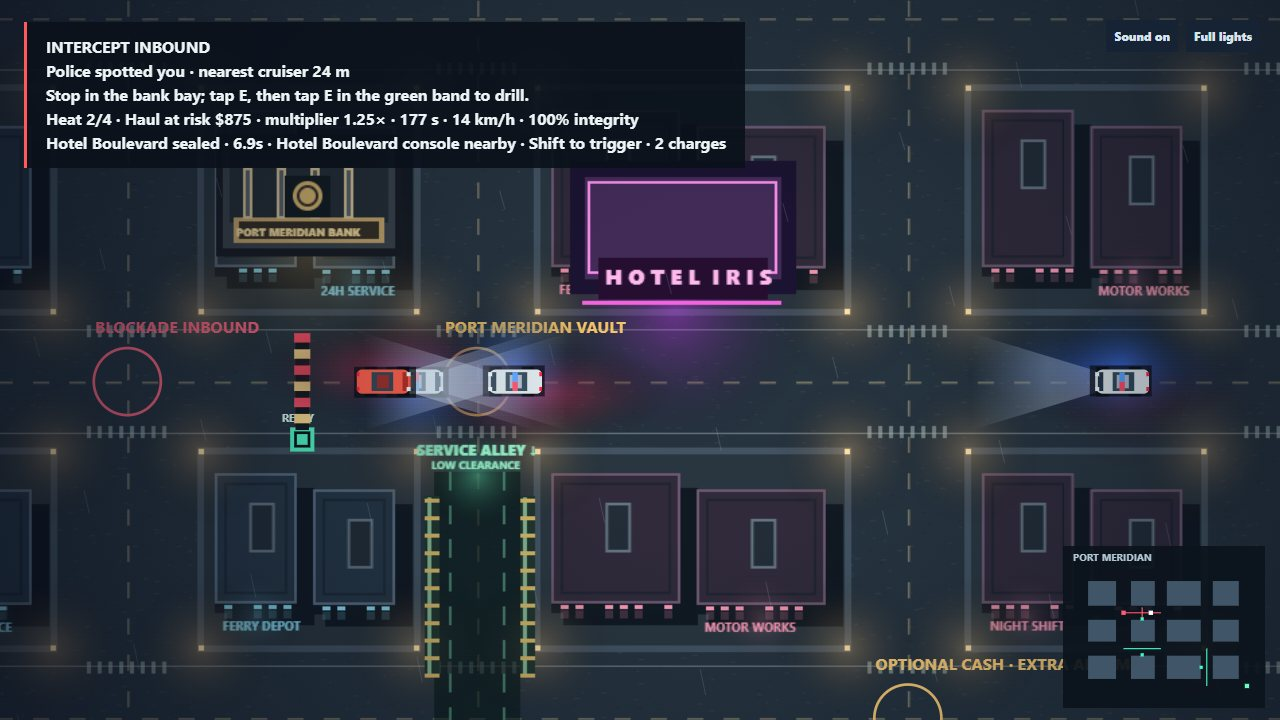
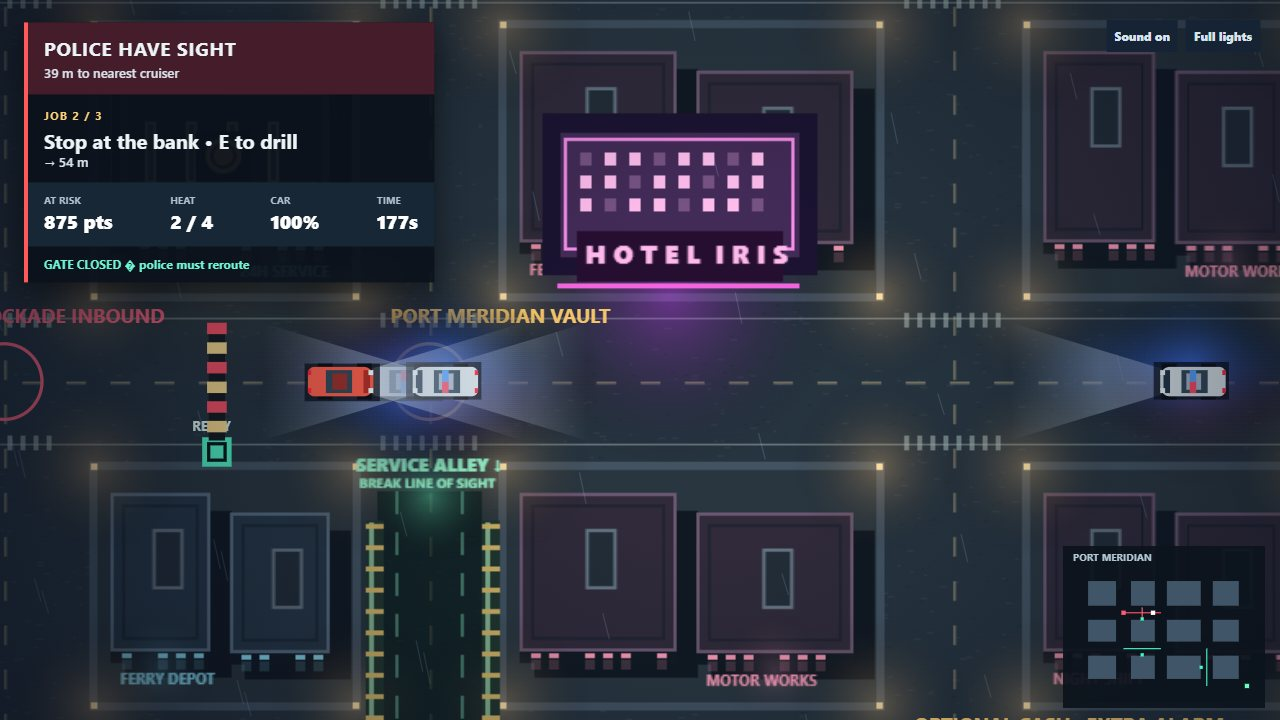
Improve chase readability and clarify route consequences

diff --git a/game/src/play.js b/game/src/play.js
@@ -111,7 +111,7 @@ startButton.onclick = confirm;
 
 function openIntermission() {
   mode='intermission'; hud.hidden=true; brief.hidden=true; intermission.hidden=false;
-  Jobs.offer(state.jobs); state.selectedUpgrade=null;
+  Jobs.offer(state.jobs); state.selectedUpgrade=null; continueJob.disabled=true;
   document.querySelector('#job-summary').textContent = `${state.jobs.pendingTitle}. Current haul at risk: $${Math.round(state.jobs.haul*state.jobs.multiplier).toLocaleString()}. Hull ${Math.max(0,100-state.car.damage).toFixed(0)}%. Heat ${state.jobs.heat}/4; continuing adds 0.25× and more heat brings more patrols.`;
   upgradeChoices.replaceChildren();
   state.jobs.choices.forEach((upgrade,index)=>{
@@ -209,7 +209,7 @@ function drawTraffic() {
 }
 
 function chaseCamera(car, w, h, title) {
-  const base = Math.max(.75, Math.min(1.45, h / 535));
+  const base = Math.max(.75, Math.min(1.8, h / 440));
   if (title) return { x: 600, y: car.y, zoom: Math.max(1.5, Math.min(1.8, h / 450)) };
   const point = { x: car.x + Math.cos(car.angle) * 250, y: car.y + Math.sin(car.angle) * 250 };
   const junction = City.nodes[City.nearest(point)];
@@ -297,17 +297,8 @@ function render() {
     ctx.font = 'bold 12px system-ui';
     ctx.fillText('PRESS E IN THE GREEN BAND', x, y - 12);
   }
-  let objective = state.jobs ? ['Drive through the moving cash target at speed. Shift beside a relay to close its road.','Stop in the bank bay; tap E, then tap E in the green band to drill.','Follow the moving courier. Hold E within 65 m below 41 km/h for the transfer.','Reach the docks, tuck under the loading canopy and stay hidden to bank your haul.'][state.jobs.stage] : (state.collected?'Reach the docks':'Reach the bank');
-  let nextBanner = (state.collected ? (pursuit.block ? 'ROADBLOCK ACTIVE' : pursuit.intercept ? 'INTERCEPT INBOUND' : 'POLICE PURSUIT') +
-    '\n' + (pursuit.seen ? (pursuit.reacquired ? 'Police reacquired you' : 'Police spotted you') + ' · nearest cruiser ' + Math.round(pursuit.nearestRange) + ' m' : pursuit.lost < Pursuit.clearTime ?
-      'Patrols searching · stay hidden ' + Math.max(0,Pursuit.clearDuration(state) - pursuit.lost).toFixed(1) + ' s more' : 'Police lost · dock gate ' + arrow + ' ' + range + ' m') : state.sweep >= 0
-    ? 'Vault drilling · press E in the green band to take the cash'
-    : near ? 'Stop at the bank · tap E to start drilling, then tap E in the green band' : targetLabel() + ' ' + arrow + ' ' + range + ' m') +
-    '\n' + objective + (state.jobs?.stage===2 ? ` · transfer ${Math.min(100,Math.round(state.jobs.transfer/.7*100))}%` : '') + `\nHeat ${state.jobs?.heat||0}/4 · ` + (pursuit.contact>.1?`capture ${Math.min(100,Math.round(pursuit.contact/.87*100))}% · `:'') + 'Haul at risk $' + Math.round((state.jobs?.haul||0)*(state.jobs?.multiplier||1)).toLocaleString() + ` · multiplier ${state.jobs?.multiplier?.toFixed(2)||'1.00'}× · ` + Math.ceil(Math.max(0, 180 - state.time)) + ' s · ' + Math.round(Math.hypot(c.vx, c.vy) * .55) + ' km/h · ' + Math.max(0, 100 - Math.round(c.damage)) + '% integrity';
-  const relay = Traffic.near(state);
-  const gateLine = relay ? `\n${state.traffic.message} · ${relay.name} console nearby · Shift to trigger · ${state.traffic.charges} charge${state.traffic.charges===1?'':'s'}` : `\n${state.traffic.message} · ${state.traffic.charges} gate charges`;
-  nextBanner += gateLine;
-  if (nextBanner !== banner) { hud.textContent = nextBanner; banner = nextBanner; }
+  ChaseHUD.update(hud, state, pursuit, arrow, range);
+
 }
 
 function frame(now) {

diff --git a/game/index.html b/game/index.html
@@ -14,6 +14,7 @@
 <script defer src="src/siren.js"></script>
 <script defer src="src/contracts.js"></script>
 <script defer src="src/records.js"></script>
+<script defer src="src/hud.js"></script>
 <script defer src="src/play.js"></script>
 </head>
 <body>
@@ -24,7 +25,7 @@
 <div class="actions"><button id="start">Drive ↵</button><label id="patrol-choice">Contract <select id="patrol"></select></label></div>
 <small>W / ↑ accelerate · A / ← and D / → steer · S / ↓ brake · Space handbrake · E interact · Shift near a relay closes its gate · Esc pause · R retry · C contracts</small>
 </section>
-<section id="intermission" hidden><h1>JOB <span>COMPLETE</span></h1><p id="job-summary"></p><div id="upgrade-choices" class="upgrade-choices"></div><p>Pick one upgrade to continue, or take your secured haul to the docks now. Continuing gives you a brief head start while patrols reposition.</p><div class="actions"><button id="continue-job" disabled>Continue job</button><button id="cash-out">Extract with haul</button></div></section>
+<section id="intermission" hidden><h1>JOB <span>COMPLETE</span></h1><p id="job-summary"></p><div id="upgrade-choices" class="upgrade-choices"></div><p>Pick one upgrade to continue, or take your haul at risk to the docks now. Continuing gives you a brief head start while patrols reposition.</p><div class="actions"><button id="continue-job" disabled>Continue job</button><button id="cash-out">Extract with haul</button></div></section>
 <div id="hud" hidden></div>
 <div id="settings"><button id="mute">Sound on</button><button id="flash">Full lights</button></div></body>
 </html>

diff --git a/game/style.css b/game/style.css
@@ -3,3 +3,5 @@
 #settings{position:absolute;right:20px;top:20px;display:flex;gap:8px}#settings button{font-size:12px;background:#152334;color:#d6e4ed;padding:8px}
 section{max-height:94vh;overflow:auto}
 .upgrade-choices{display:grid;grid-template-columns:repeat(3,minmax(0,1fr));gap:10px;margin:16px 0}.upgrade-choices button{background:#172838;color:#f0f6f8;text-align:left;padding:12px;font-size:13px}.upgrade-choices button.selected{outline:3px solid #57efbb}.upgrade-choices strong,.upgrade-choices span{display:block}.upgrade-choices span{font-weight:500;color:#b9cbd5;margin-top:6px;font-size:11px}#continue-job:disabled{opacity:.45;cursor:not-allowed}
+
+#hud{padding:0;width:410px;max-width:48vw;white-space:normal;border-left:4px solid #ff595b;box-shadow:0 10px 35px #0008}.chase-threat{padding:12px 16px;background:#451c29;font-size:19px;letter-spacing:.04em}.chase-threat span,.chase-objective span{display:block;font-size:13px;font-weight:500;letter-spacing:0;color:#d8e2ea}.chase-objective{padding:12px 16px;font-size:20px;line-height:1.3}.chase-objective small{margin:0 0 4px;color:#ffd179;font-size:11px;letter-spacing:.12em}.chase-stats{display:flex;justify-content:space-between;padding:10px 16px;background:#182735;font-size:10px;color:#afbfce}.chase-stats strong{display:block;font-size:19px;color:#fff}.chase-route{padding:9px 16px;color:#6ff5d0;font-size:12px}

diff --git a/game/src/art.js b/game/src/art.js
@@ -130,6 +130,10 @@ const Art = (() => {
     ctx.strokeStyle = '#f78de9';
     ctx.lineWidth = 2;
     ctx.strokeRect(773, facade - 80, 139, 67);
+    // Lit hotel windows make the landmark read as a facade at speed.
+    for(let row=0;row<3;row++)for(let col=0;col<8;col++) {
+      fill(ctx,782+col*15,facade-72+row*14,7,8,(row+col)%3?'#ffbded':'#775382');
+    }
     fill(ctx, 780, facade - 24, 126, 31, '#260e31');
     ctx.font = '900 16px system-ui';
     ctx.fillStyle = '#ffb9ed';
@@ -152,7 +156,7 @@ const Art = (() => {
     ctx.fillStyle = '#9bfccf';
     ctx.fillText('SERVICE ALLEY ↓', x - 45, coverTop - 12);
     ctx.font = '700 8px system-ui';
-    ctx.fillText('LOW CLEARANCE', x - 34, coverTop - 2);
+    ctx.fillText('BREAK LINE OF SIGHT', x - 43, coverTop - 2);
 
     const dock = City.blocks.find(b => b.row === 2 && b.col === 3);
     for (let i = 0; i < 4; i++) {

diff --git a/docs/IMPROVEMENT_REPORT.md b/docs/IMPROVEMENT_REPORT.md
@@ -1,0 +1,11 @@
+# Readable pursuit candidate
+
+Baseline preserved: 98f4972b483a35562af0b81f0e652b9b2d30ab18 on competition-rescue. rollback/c6bc057 retained.
+
+Hypothesis: the prior dense HUD and small cars weakened screenshot readability. No per-match judge explanation is available and no new score is claimed.
+
+Changes: focused ChaseHUD module; larger camera framing; visible capture warning; clear gate-closed consequence; alley sight-break label; lit hotel facade. Reset the upgrade continue button on each offer. Removed the misleading description of unbanked haul as secured. The driving and police simulations retain the validated baseline behavior.
+
+Evidence: 23 unit tests passed. Offline Chrome at 1280x720 and 1920x1080 passed the three-job chain, vault, gate diversion, upgrades, escape, retry, contract selection and records. Optional cash alarm and capture passed at 1280x720. Visible Chrome at normal speed completed the three jobs and escape; the final four JPGs are genuine captures. The existing browser assertion was corrected to accept both Escaped and Clean getaway. No artificial game-state setup was added.
+
+Limitations: this is a presentation and interaction correction candidate, not an AI or handling rewrite. The bank can still sit behind the HUD, and lower contact-sheet cells retain dense copy. No new judged result exists. No submission or push was made. Kit report, transcript bundle and export evidence are kept outside the public repository in the setup folder.
